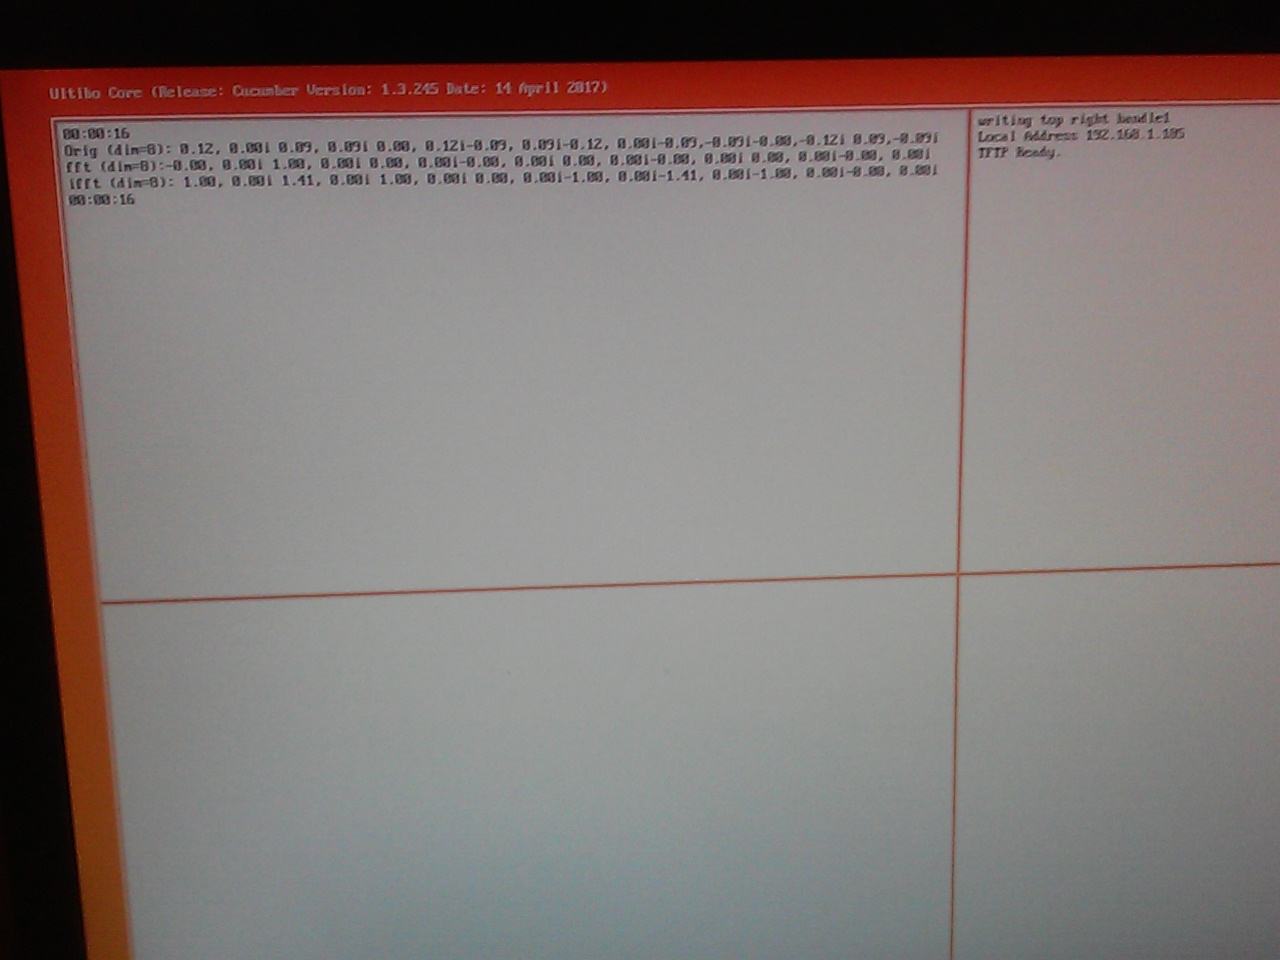
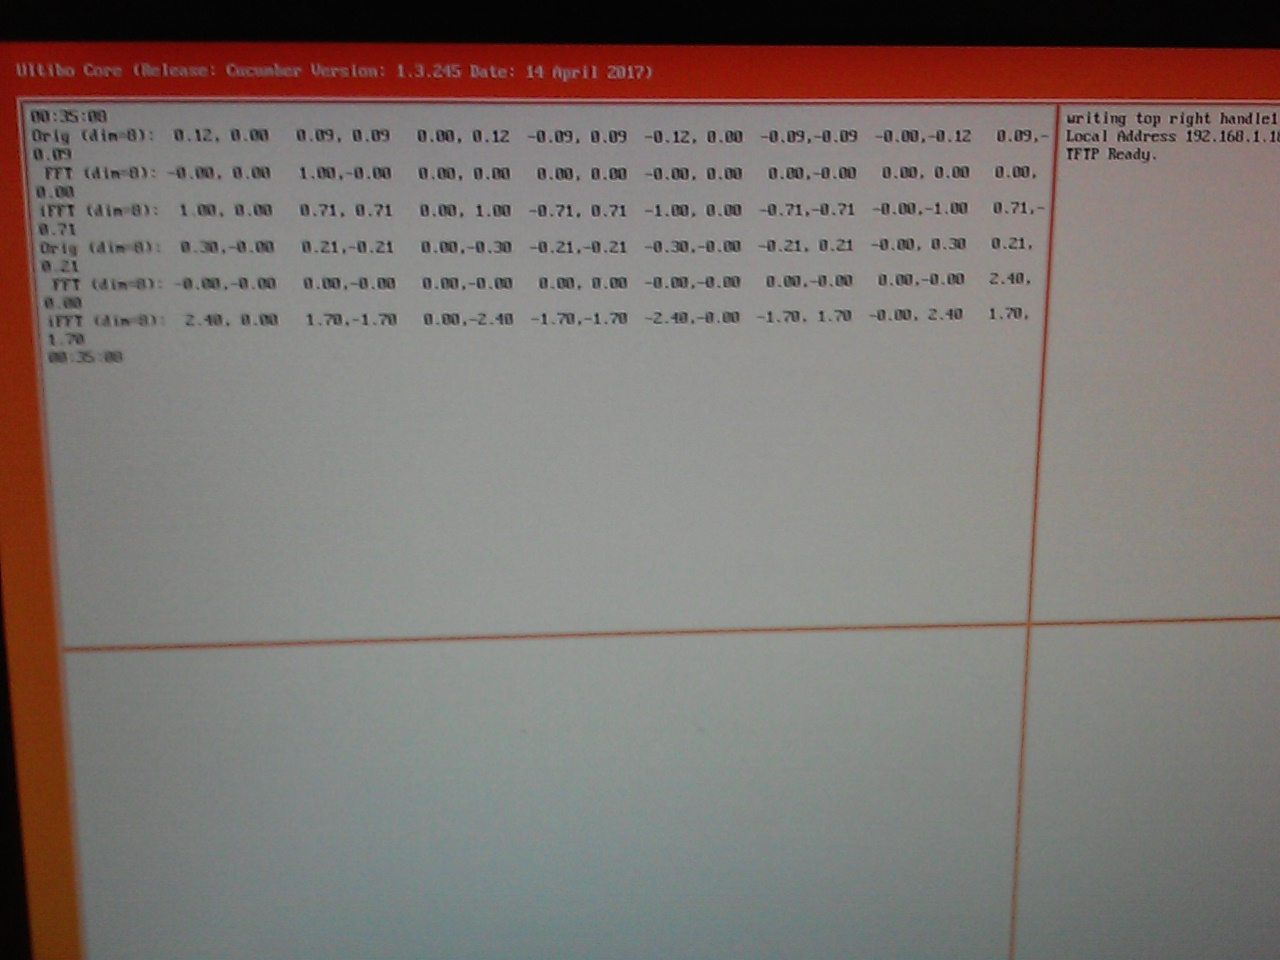
fixed fft.c putchar('\n'); was replaced with printf("\n"); main was it made it a void chg'ed main to fft_pas.

Changed region(s): [[0.0, 0.0312, 1.0, 1.0], [0.875, 0.5625, 1.0, 0.5938]]

diff --git a/Pascal_linked/fft.c b/Pascal_linked/fft.c
@@ -27,7 +27,8 @@ print_vector(
   int i;
   printf("%s (dim=%d):", title, n);
   for(i=0; i<n; i++ ) printf(" %5.2f,%5.2f ", x[i].Re,x[i].Im);
-  putchar('\n');
+  printf("\n");
+  //putchar('\n');
   return;
 }
 
@@ -111,8 +112,8 @@ ifft( complex *v, int n, complex *tmp )
 }
 
 
-int
-main(void)
+void
+fft_pas(void)
 {
   complex v[N], v1[N], scratch[N];
   int k;
@@ -139,5 +140,5 @@ main(void)
   ifft( v1, N, scratch );
   print_vector("iFFT", v1, N);
 
-  exit(EXIT_SUCCESS);
+  //exit(EXIT_SUCCESS);
 }
